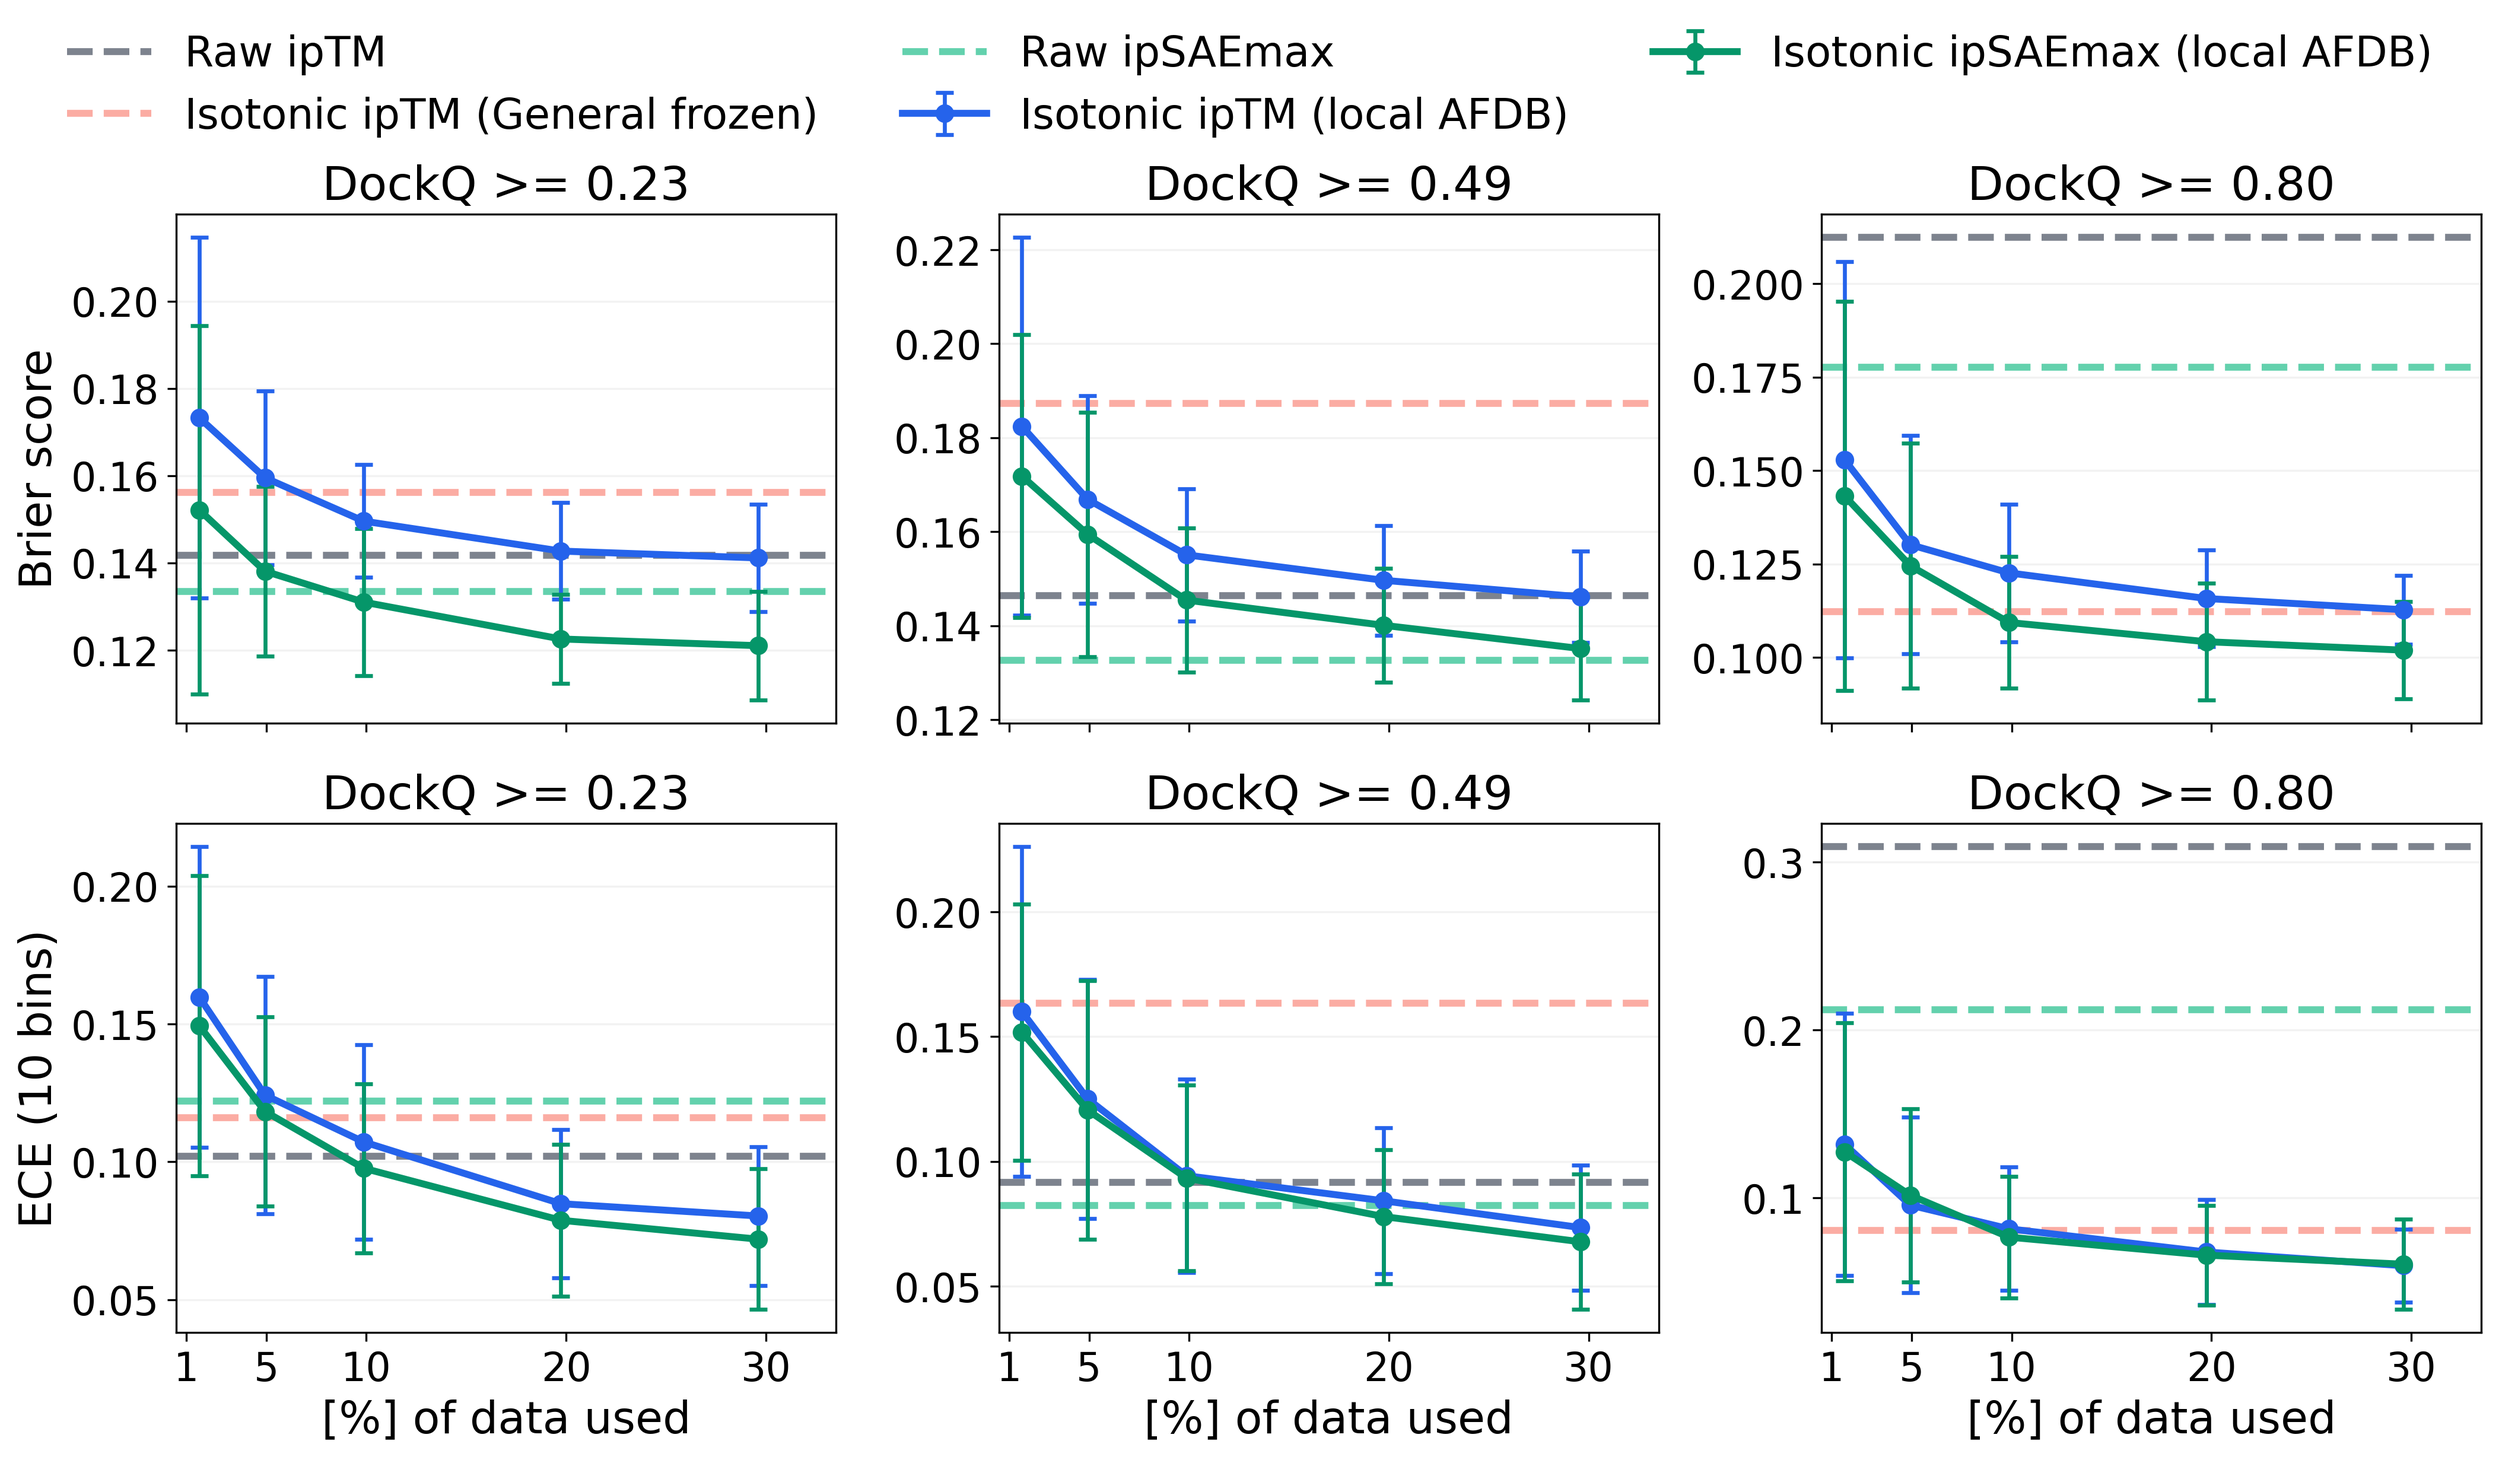
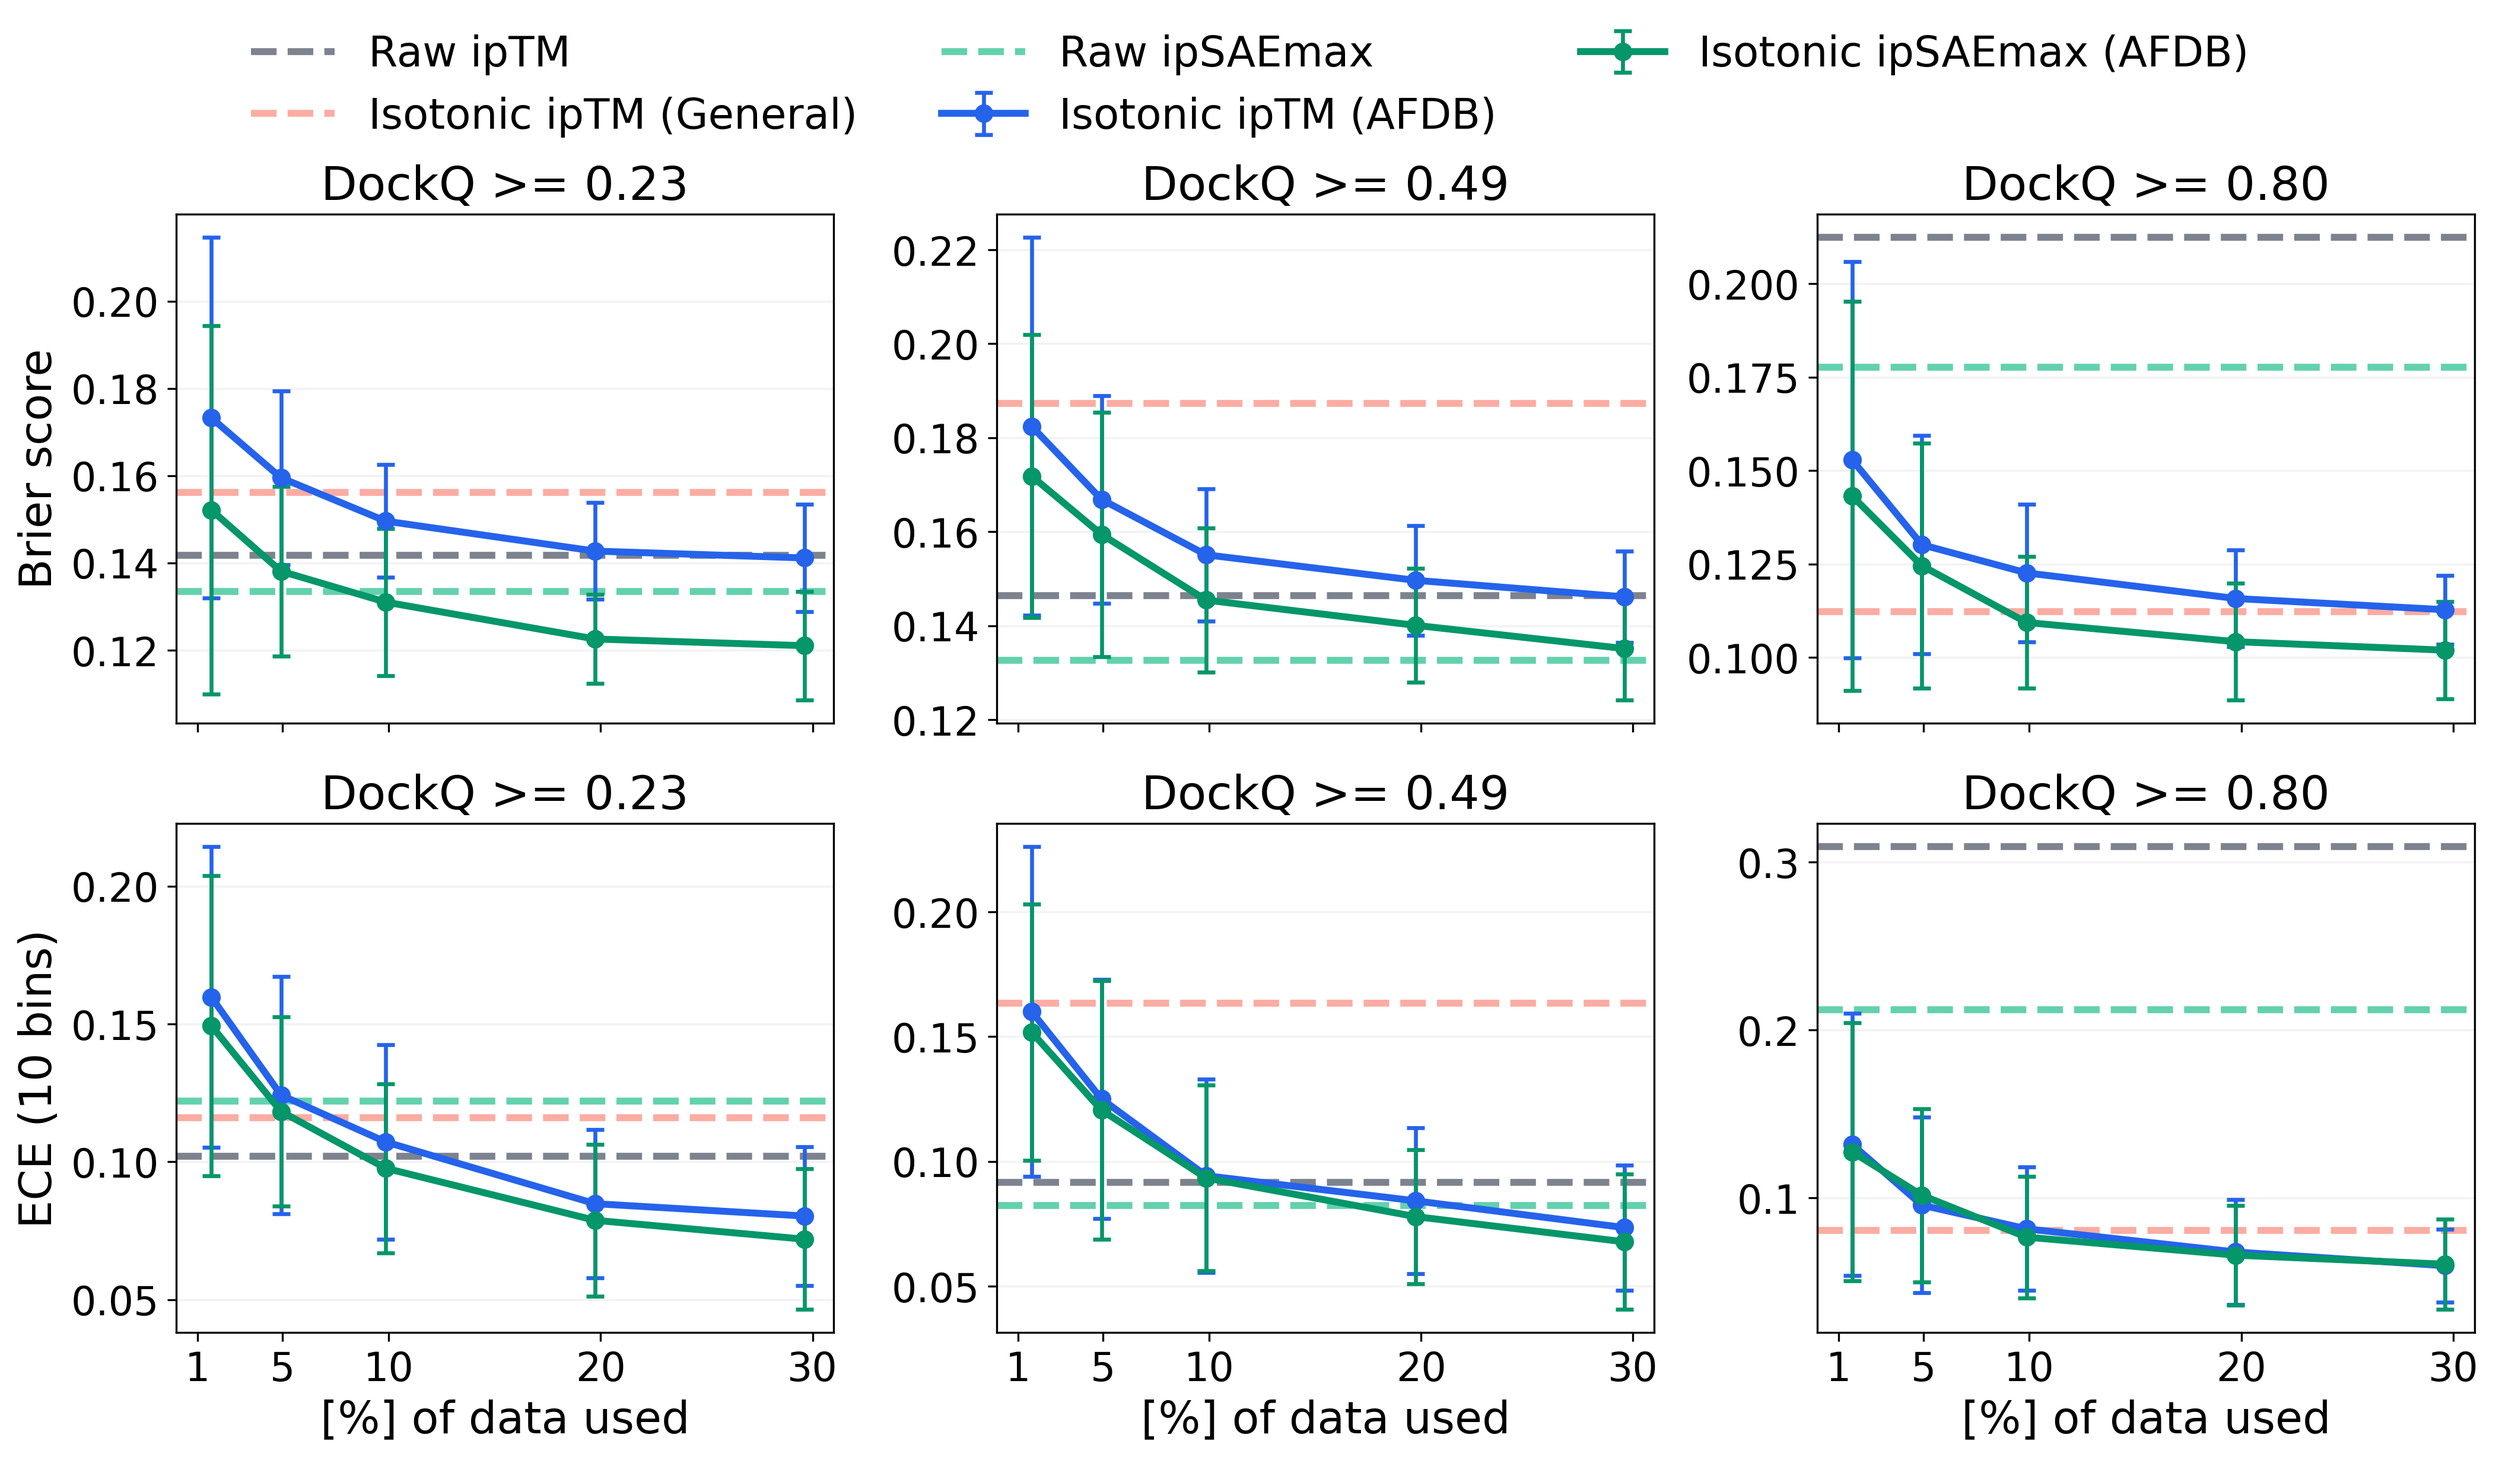
Simplify AFDB recalibration legend

diff --git a/scripts/render_workshop_final_figures.py b/scripts/render_workshop_final_figures.py
@@ -49,6 +49,14 @@ F3_STYLES = {
     "Isotonic ipSAEmax (local AFDB)": {"color": "#059669", "linestyle": "-", "marker": "o"},
 }
 
+F3_LABELS = {
+    "Raw ipTM": "Raw ipTM",
+    "Isotonic ipTM (General frozen)": "Isotonic ipTM (General)",
+    "Isotonic ipTM (local AFDB)": "Isotonic ipTM (AFDB)",
+    "Raw ipSAEmax": "Raw ipSAEmax",
+    "Isotonic ipSAEmax (local AFDB)": "Isotonic ipSAEmax (AFDB)",
+}
+
 ABAG_ROWS = 62681
 GENERAL_ROWS = 5496
 AFDB_ROWS = 304
@@ -162,7 +170,7 @@ def render_figure1_panels(source: pd.DataFrame, dataset_order: list[str], out_ba
                     marker=spec["marker"],
                     linewidth=2.7 if method_name == "Isotonic ipTM" else 2.2,
                     markersize=6,
-                    label=method_name if (row_index, col_index) == (0, 0) else None,
+                    label=F3_LABELS[method_name] if (row_index, col_index) == (0, 0) else None,
                 )
             ax.plot([0, 1], [0, 1], "k--", linewidth=1.0, alpha=0.35)
             dataset_label = panel["dataset_label"].iloc[0]
@@ -390,7 +398,7 @@ def render_figure3(source: pd.DataFrame, out_dir: Path = PAPER_FIG, out_base: st
                     linestyle="--",
                     linewidth=2.8,
                     alpha=0.65,
-                    label=method_name if (row_index, col_index) == (0, 0) else None,
+                    label=F3_LABELS[method_name] if (row_index, col_index) == (0, 0) else None,
                 )
             for method_name in local_methods:
                 line = panel.loc[
@@ -416,11 +424,11 @@ def render_figure3(source: pd.DataFrame, out_dir: Path = PAPER_FIG, out_base: st
                     elinewidth=1.6,
                     capsize=3.5,
                     capthick=1.6,
-                    label=method_name if (row_index, col_index) == (0, 0) else None,
+                    label=F3_LABELS[method_name] if (row_index, col_index) == (0, 0) else None,
                 )
             ax.set_title(f"DockQ >= {threshold_value:.2f}", fontsize=19)
             ax.set_xticks([1, 5, 10, 20, 30])
-            ax.set_xlim(0.5, 33.5)
+            ax.set_xlim(0, 31)
             ax.grid(axis="y", alpha=0.16)
             ax.tick_params(axis="both", labelsize=16)
             if col_index == 0:
